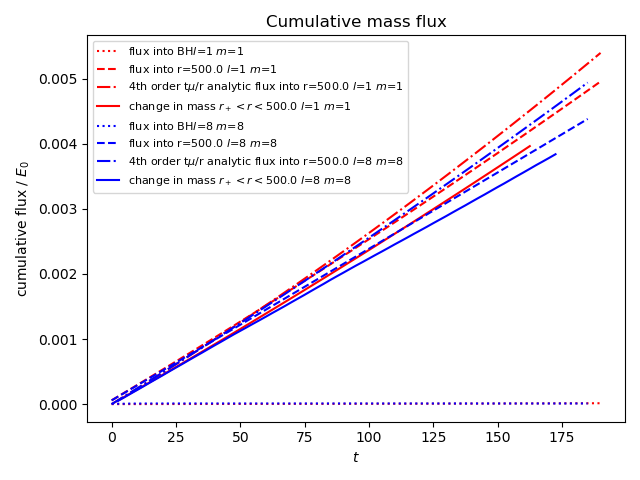
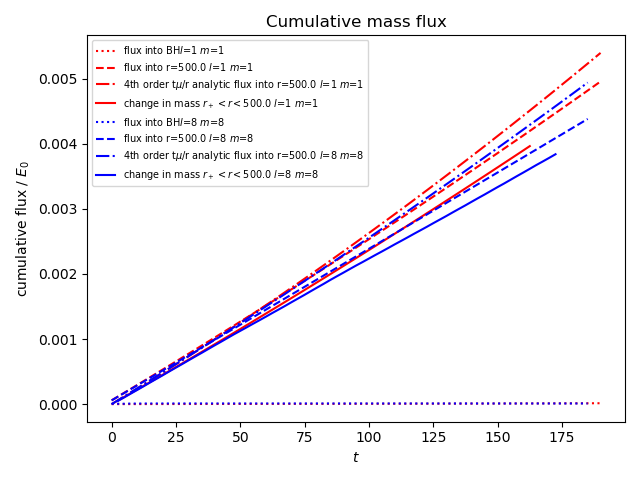
new plot

Changed region(s): [[0.125, 0.0625, 0.6562, 0.4062]]

diff --git a/Analysis/scripts/plot_mass_flux_KS.py b/Analysis/scripts/plot_mass_flux_KS.py
@@ -116,7 +116,7 @@ r_min = 5
 r_max = 500
 average_time = False
 av_n = 1
-cumulative=False
+cumulative=True
 plot_mass=True
 
 def load_flux_data():
@@ -182,16 +182,17 @@ def plot_graph():
 		if plot_mass:
 			mass_line_data = mass_data[dd.num]
 			#print(mass_line_data[0:,1])
-			delta_mass = (mass_line_data[1:,1] - mass_line_data[0,1])/E0
-			tmass = mass_line_data[1:,0]
 			#ax1.plot(tmass,delta_mass/E0,colours[i]+"-", label="change in mass {:.1f}$<r<${:.1f} ".format(r_min,r_max)+label_)
 			if cumulative:
+				tmass = mass_line_data[1:,0]
+				delta_mass = (mass_line_data[1:,1] - mass_line_data[0,1])/E0
 				ax1.plot(tmass,delta_mass,colours[i]+"-", label="change in mass $r_+<r<${:.1f} ".format(r_max)+label_)
 			elif not cumulative:
+				tmass = mass_line_data[:-1,0]
 				dt = tmass[1] - tmass[0]
 				tmass_mean = 0.5*(tmass[1:]+tmass[:-1])
-				dmass_dt = (delta_mass[1:] - delta_mass[0:-1])/dt
-				ax1.plot(tmass_mean,dmass_dt,colours[i]+"-", label="rate of change in mass $r_+<r<${:.1f} ".format(r_max)+label_)
+				dmass_dt = (mass_line_data[1:,1] - mass_line_data[:-1,1])/(E0*dt)
+				ax1.plot(tmass,dmass_dt,colours[i]+"-", label="rate of change in mass $r_+<r<${:.1f} ".format(r_max)+label_)
 		i = i + 1
 	ax1.set_xlabel("$t$")
 	#ax1.set_xlim((0, 300))
@@ -201,11 +202,12 @@ def plot_graph():
 		ax1.set_ylabel("cumulative flux / $E_0$")
 		plt.title("Cumulative mass flux")
 		save_path = home_path + "plots/mass_flux_Kerr_Schild_cumulative_compare_lm_r_plus_to_500.png"
+		ax1.legend(loc='best', fontsize=7)
 	else:
 		ax1.set_ylabel("flux / $E_0$")
 		plt.title("Mass flux")
 		save_path = home_path + "plots/mass_flux_Kerr_Schild_compare_lm_r_plus_to_500.png"
-	ax1.legend(loc='lower left', bbox_to_anchor=(0.0,0.2), fontsize=7)
+		ax1.legend(loc='lower left', bbox_to_anchor=(0.0,0.2), fontsize=7)
 	plt.tight_layout()
 	plt.savefig(save_path)
 	print("saved plot as " + str(save_path))
